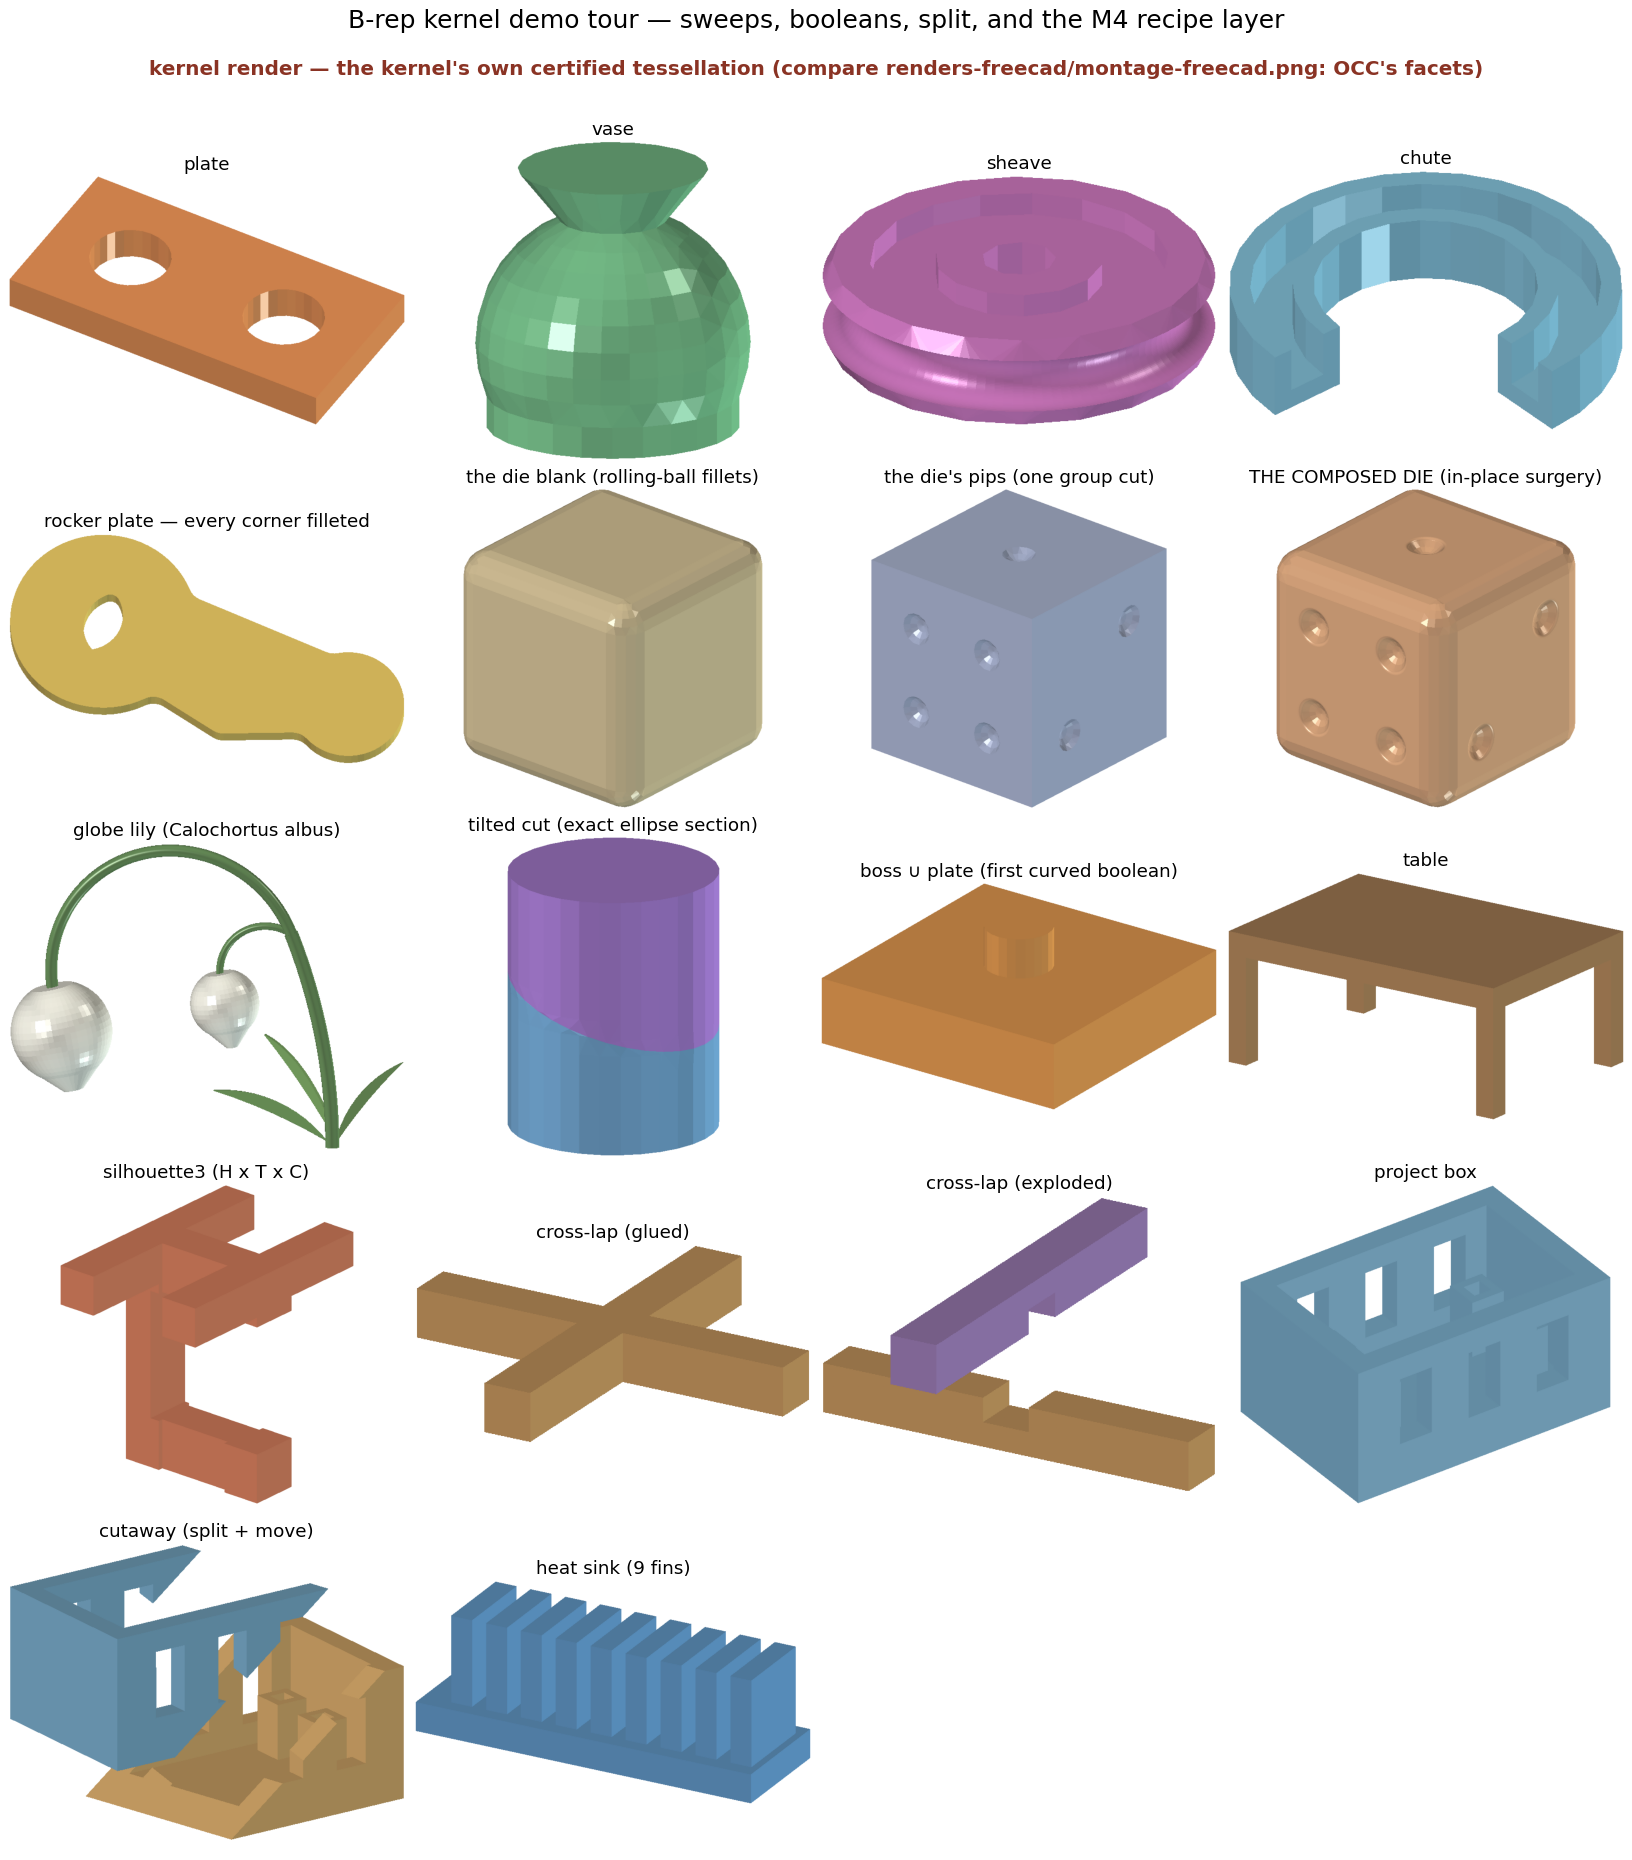
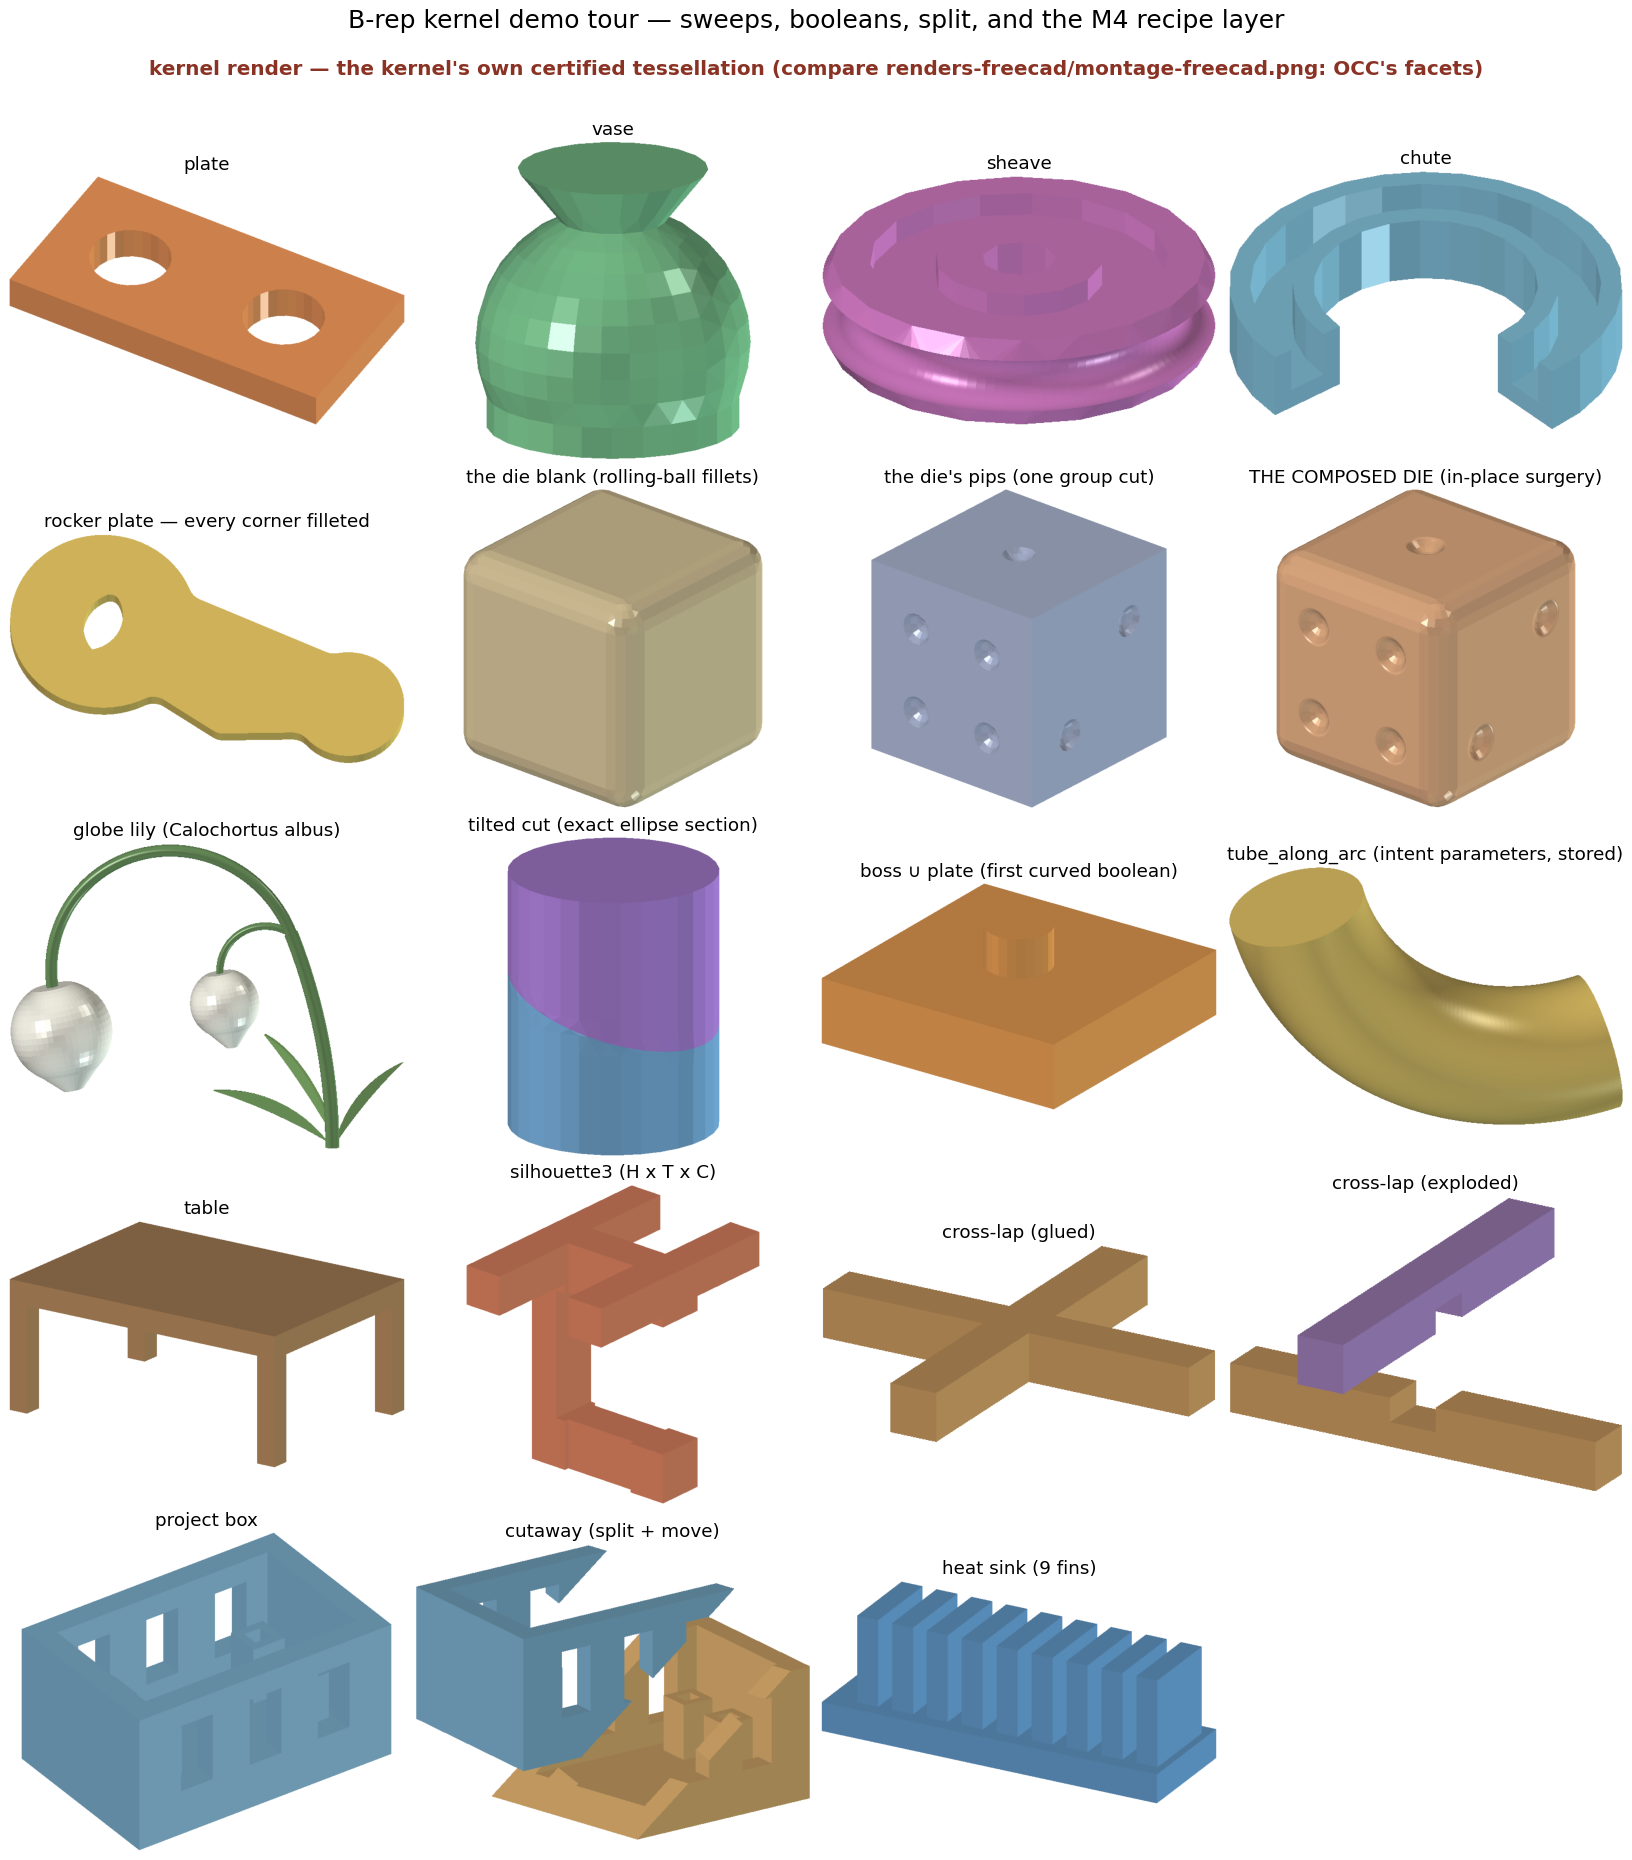
montage refresh: the tube door joins both sheets
tube_along_arc (M6-3 Leg F) as scene 19 on the kernel and FreeCAD/OCC
lanes: sweep/tests/m6_tube.rs's wedge constant for constant (origin,
+y, +x, R = 2, Arc{0.25, 1.75}, r = 0.5), with the door's headline
claim executed on the scene body — both half-tube walls store
minor_radius bit-exactly. README gains the stops row, the explicit
cell-count pin with its 28 - 9 = 19 derivation, and the STEP-lane
count refresh (37 -> 38 bodies, 20 -> 21 curved, seven -> eight
carrying no reversed face).

Changed region(s): [[0.0, 0.4366, 1.0, 0.9978]]

diff --git a/demos/tour/src/tube.rs b/demos/tour/src/tube.rs
@@ -1,0 +1,127 @@
+//! **The tube door made visible** — `sweep::tube_along_arc`, the
+//! world-coordinate torus door (M6-3 Leg F, the Evan-ratified rider
+//! on the #175 thread).
+//!
+//! # Why this is a scene and not "another torus"
+//!
+//! The sheave's groove and the globe lily's three stem tubes already
+//! put ring-torus walls on the montage — but both arrive by
+//! `revolve`, which reconstructs the tube radius from the profile's
+//! bulge arcs (the lily's stored `minor_radius` sits 3.9e-16 below
+//! the authored 0.060; the review donut drifted 56 ulps). This door
+//! takes the INTENT parameters directly — spine centre, axis,
+//! reference direction, major radius, an arc window, minor radius —
+//! and stores them, with no profile → bulge → radius arithmetic
+//! anywhere on the path.
+//!
+//! The scene is deliberately a WINDOWED tube rather than the full
+//! donut, so that every intent parameter is on screen: the major
+//! radius is the ring's own radius, the minor radius is the pipe's,
+//! and the window `[t0, t1]` is the gap plus the two wedge caps that
+//! close it. A full ring would show two of the three.
+//!
+//! Construction is `sweep/tests/m6_tube.rs`'s wedge, constant for
+//! constant (that suite pins the census — two half-tube walls plus
+//! two planar caps — the Pappus volume, and the bit-exact
+//! `minor_radius` retirement with `==`, not a tolerance).
+
+#![allow(clippy::unwrap_used, clippy::expect_used, clippy::panic)]
+
+use geom_core::{Point3, Vec3};
+use geom_surfaces::Surface;
+use sweep::{TubeWindow, tube_along_arc};
+
+use crate::{SceneBody, Stop, View};
+
+/// Major radius (`m6_tube.rs::R`).
+const R: f64 = 2.0;
+/// Minor radius (`m6_tube.rs::MINOR`).
+const MINOR: f64 = 0.5;
+/// The window's start angle, radians about the spine axis from
+/// `u_ref` (`m6_tube.rs::tube_window_and_refusal_doors`).
+const T0: f64 = 0.25;
+/// The window's end angle.
+const T1: f64 = 1.75;
+
+/// The tube-door stop.
+pub fn stops() -> Vec<Stop> {
+    let tube = tube_along_arc::<f64>(
+        Point3::new(0.0, 0.0, 0.0),
+        Vec3::unit_y(),
+        Vec3::unit_x(),
+        R,
+        TubeWindow::Arc { t0: T0, t1: T1 },
+        MINOR,
+    )
+    .expect("the wedge builds")
+    .body;
+
+    // The door's headline claim, EXECUTED on the scene body rather
+    // than quoted from the test suite: the number the caller gave is
+    // the number the body stores, bit for bit. (`==`, not a
+    // tolerance — that is the whole point of the retirement.)
+    let mut stored: Vec<f64> = Vec::new();
+    for (_, face) in tube.faces() {
+        if let Some(Surface::Torus { minor_radius, .. }) = tube.get_surface(face.surface) {
+            stored.push(*minor_radius);
+        }
+    }
+    assert_eq!(stored.len(), 2, "a windowed tube has two half-tube walls");
+    assert!(
+        stored.iter().all(|r| r.to_bits() == MINOR.to_bits()),
+        "the tube door STORES the authored minor radius BIT-exactly \
+         (got {stored:?}, authored {MINOR}) — if this ever drifts, the \
+         56-ulp reconstruction the door retired has come back"
+    );
+
+    // Pappus on the wedge: the swept area is the full disc pi*r^2 and
+    // the centroid travels R*(t1 - t0).
+    let span = T1 - T0;
+    let pappus = core::f64::consts::PI * MINOR * MINOR * R * span;
+
+    vec![Stop {
+        name: "tube_along_arc",
+        caption: "tube_along_arc (intent parameters, stored)".to_string(),
+        montage: true,
+        story: "a ring-torus tube built from its INTENT parameters — spine centre at \
+                the origin, spine axis +y, reference direction +x, major radius 2, \
+                minor radius 0.5, traversed over the window [0.25, 1.75] rad. Every \
+                one of those is visible: the ring's radius, the pipe's radius, and the \
+                window as the gap the two planar wedge caps close",
+        ops: "sweep::tube_along_arc(origin, +y, +x, R = 2, Arc{t0 = 0.25, t1 = 1.75}, \
+              r = 0.5)",
+        // The lily's finding 13 in miniature: delta is a CHORD budget
+        // spent per RING radius, not per feature size, so a 2 m spine
+        // burns it fast. Measured on this body: 2e-3 -> 172k triangles
+        // at 0.004% mesh-volume error, 6e-3 -> 58k at 0.011%,
+        // 1e-2 -> 23k at 0.028%. 1e-2 is the montage's own working
+        // budget (cutaway, projectbox) and the facets it leaves are
+        // the point of the kernel lane, not a defect.
+        delta: 1e-2,
+        note: Some(format!(
+            "sweep/tests/m6_tube.rs's wedge, constant for constant. NO semantic fork: \
+             the body is assembled by the revolve's own partial-wedge machinery fed a \
+             directly constructed swept traversal, so classification, sense derivation, \
+             seam placement, the ring-torus convention (R > r > 0) and the whole-body \
+             pcurve mint are the revolve's code, not copies. What differs is what gets \
+             STORED — both half-tube walls carry minor_radius == {MINOR} BIT-EXACTLY \
+             (asserted here with ==, on this scene body), retiring the profile -> bulge \
+             -> radius reconstruction drift the lily measured at 3.9e-16 and the review \
+             donut at 56 ulps. Census: 2 half-tube walls + 2 planar caps; volume by \
+             Pappus pi*r^2*R*(t1 - t0) = {pappus:.9} m^3"
+        )),
+        // The ring lies in the world XZ plane (its axis is +y), so a
+        // camera near the y-axis sees the window face-on and a camera
+        // in the XZ plane sees it edge-on and unreadable. azim 72
+        // puts the eye 18 degrees off +y — the window's angular
+        // extent still reads as an angle — and elev 28 tilts enough
+        // that the tube's roundness and the near cap's disc are both
+        // shaded rather than flat.
+        view: View {
+            elev: 28.0,
+            azim: 72.0,
+            up: 'z',
+        },
+        bodies: vec![SceneBody::plain("tube_along_arc", [0.80, 0.68, 0.32], tube)],
+    }]
+}

diff --git a/demos/tour/src/main.rs b/demos/tour/src/main.rs
@@ -28,6 +28,7 @@ mod projectbox;
 mod rocker;
 mod scalar;
 mod skinned;
+mod tube;
 
 use mesh::validate::{check_mesh, signed_volume, triangle_count};
 use topo::{Body, ContactRecords};
@@ -405,6 +406,11 @@ fn main() {
     }
 
     skinned::narration();
+
+    println!("\n-- the tube door (M6-3 Leg F: a torus from its INTENT parameters) --");
+    for stop in tube::stops() {
+        run(&stop);
+    }
 
     println!("\n-- the boolean leg (M3): union / subtract / intersect, planar-only --");
     for stop in bool_bodies::stops() {

diff --git a/demos/README.md b/demos/README.md
@@ -44,6 +44,17 @@ The tour ships **two montage sheets** with identical grids, captions,
 scene order, and cameras (both read `scenes.json`) — cell-for-cell
 comparable, differing ONLY in whose tessellation is on screen:
 
+**Cell count: 19 on each sheet** (4 columns × 5 rows, last row short
+by one — `compose_montage.py` derives the row count, nothing is
+hardcoded). The derivation: the tour emits 28 scenes, of which 9 are
+`montage: false` — the four standalone renders kept out of the sheet
+by the #91 revision notes and the M6 curation pass (`bracket`, `die`,
+`silhouette`, `az`), the two under-filled heat-sink variants
+(`heatsink5`, `heatsink7` — the sheet carries only the 9-fin panel),
+and the three shadow proofs (`silhouette3_shadow_{z,x,y}`). 28 − 9 =
+19. The count was 18 at the globe lily; the **montage refresh** adds
+one, `tube_along_arc`.
+
 - `renders/montage.png` — **the kernel's own facets**. Every cell
   renders the tour's exported STL mesh, i.e. the M5 trimmed/pcurve
   tessellation lane exactly as the kernel emitted it (flat-shaded
@@ -87,6 +98,7 @@ costs one cell, never the sheet).
 | `rocker` | **the M5 fillet sugar**: a rocker plate whose SIX corners are all authored by `LoopBuilder::fillet_corner` — arc×line, line×line, line×arc, arc×line, line×arc around the outline, and **arc×arc** at the eye slot's rounded tip, where two tangent circles of the authored radius fit and the S8 rule **picks the one nearest the authored corner** (asserted, and narrated with both centres); genus 1; montage panel (the sheet's profile-fillet cell since the M6 curation pass) |
 | `tiltedcut` | **RENDERING (M5 PR 11, the milestone's demo moment)**: a cylinder cut by a tilted plane — the section edges carry an **exact `Curve3::Ellipse`** (a = r/cos φ, b = r, residual ~1e-16, PR 5 shape (i)); the cut walls tessellate **watertight** through the pcurve-driven trimmed lane, and the volume is a **certified quadrature enclosure** (± ~1e-6 m³) asserted to bracket πr²H/2 per half; montage panel |
 | `bossplate` | **the first curved boolean, visible (M5 PR 11)**: a three-arc cylindrical boss unioned into a plate (PR 9 shape (ii)) — the seam is three exact `Circle` arcs, V = 16 + π·0.25·0.6 on the nose, and the shared-chord assertion pins that the curved wall and the ringed top face consume ONE chord set per seam edge; montage panel
+| `tube_along_arc` | **the tube door, with its intent parameters on screen** (M6-3 Leg F, the Evan-ratified rider on the #175 thread): a ring-torus tube built from spine centre / axis / reference direction / major radius 2 / window `[0.25, 1.75]` rad / minor radius 0.5 — `sweep/tests/m6_tube.rs`'s wedge, constant for constant. The sheave's groove and the lily's stem tubes already carry torus walls, but both arrive by `revolve`, which RECONSTRUCTS the tube radius from the profile's bulge arcs (the lily drifts 3.9e-16; the review donut drifted 56 ulps). This door stores what it was given: the scene asserts `minor_radius.to_bits() == 0.5f64.to_bits()` on **both** half-tube walls, on the scene body itself. Deliberately a WINDOWED tube, not the full donut, so all three parameters are visible — the ring's radius, the pipe's radius, and the window as the gap its two planar wedge caps close. No semantic fork: census (2 walls + 2 caps), sense derivation, the `R > r > 0` convention and the pcurve mint are the revolve's own code; volume by Pappus π·r²·R·(t₁ − t₀); montage panel |
 | `die` | 21 pip pockets across all six faces, 21 sequential Seamed subtracts, exact volume after every op; standalone render since the M6 curation pass |
 | `table` | tabletop ∪ 4 corner-straddling legs; coplanar-touching and inset-overlap variants attempted and narrated live |
 | `silhouette` | **first `intersect`**: one solid whose z-shadow is an H and x-shadow is a T (equal letter heights); the NAIVE coincident-plane variant's tier-3′ refusal is narrated (the coincidence ladder made visible); standalone render (the montage carries only the 3-way) |
@@ -172,9 +184,10 @@ contract, demonstrated rather than claimed.
 
 ## The STEP lane (#88)
 
-Every scene body exports an AP214 STEP file beside its STL — **all 37
+Every scene body exports an AP214 STEP file beside its STL — **all 38
 of them since M5 PR 13** (26 at that PR; the M5 PR 12 die pieces, the
-M6 composed die and the globe lily's eight since), where the in-house
+M6 composed die, the globe lily's eight and the montage refresh's
+tube-door wedge since), where the in-house
 writer's analytic subset
 grew from planes/lines to the whole elementary-surface vocabulary
 (`PLANE`, `CYLINDRICAL_`, `CONICAL_`, `SPHERICAL_`, `TOROIDAL_SURFACE`)
@@ -182,22 +195,25 @@ with `LINE`/`CIRCLE`/`ELLIPSE`/`B_SPLINE_CURVE_WITH_KNOTS` carriers.
 Every arm is an **exact native entity**: a cylinder leaves as a
 cylinder, never as a spline approximation of one.
 
-TWENTY tour bodies now carry a curved surface (bracket, plate, vase,
+TWENTY-ONE tour bodies now carry a curved surface (bracket, plate, vase,
 sheave, chute, rocker, bossplate, the two tiltedcut halves, the three
-die pieces, and all eight globe-lily bodies). **Thirteen of the twenty**
+die pieces, all eight globe-lily bodies, and the tube-door wedge).
+**Thirteen of the twenty-one**
 carry `same_sense = .F.` faces, the concave-wall bit S11 introduced —
 the original six (bracket 1, plate 4, vase 2, sheave 7, chute 3,
 rocker 7) plus die_pips 42, the composed die 42, each lantern 2 and each
-leaf 1. Seven carry none, and the reason is the same in every case: a
+leaf 1. Eight carry none, and the reason is the same in every case: a
 body with no CONCAVE curved wall has nothing to reverse — bossplate's
 boss bulges outward, diefillet's blends are all convex, the two
-tiltedcut halves are a plain cylinder cut, and the lily's three stem
-tubes are convex tori all the way round. (The lily's lanterns reverse on
+tiltedcut halves are a plain cylinder cut, the lily's three stem
+tubes are convex tori all the way round, and the tube-door wedge is one
+more of those with two plain wedge caps (checked: 4 `.T.`, 0 `.F.`).
+(The lily's lanterns reverse on
 their MOUTH disc, not on a curved wall: a revolve mints both cap planes
 on the profile plane's own +y normal, so exactly one cap opposes the
 solid's outward normal — see `lily_lantern.expect`.)
 
-All twenty import into FreeCAD 1.1.2 as valid single-solid shapes (the
+All twenty-one import into FreeCAD 1.1.2 as valid single-solid shapes (the
 STEP-lane montage draws every one of them from its own AP214 export,
 with no placeholder cells); the lily's eight were additionally checked
 against independent closed forms — Pappus for the torus segments, a
